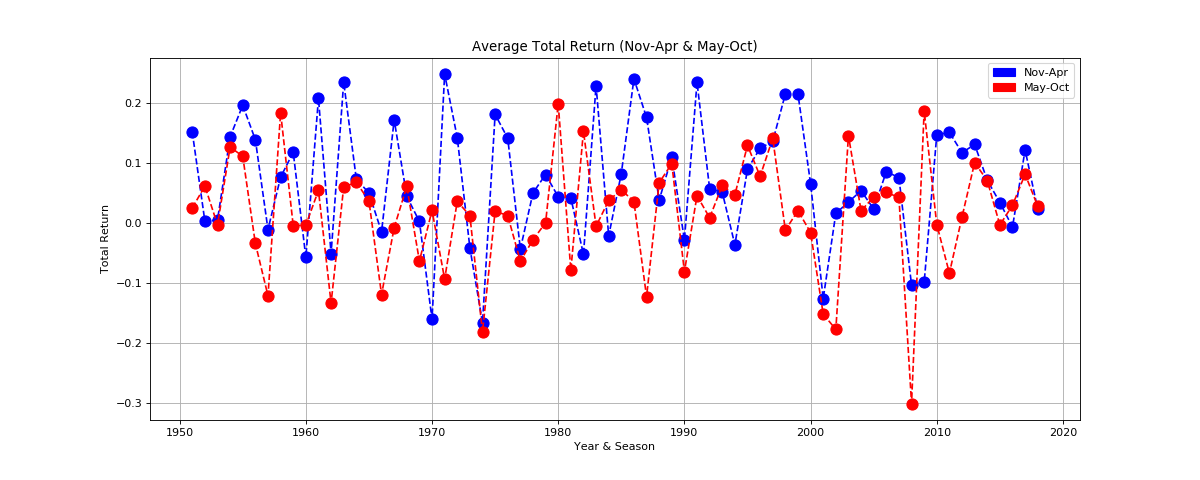
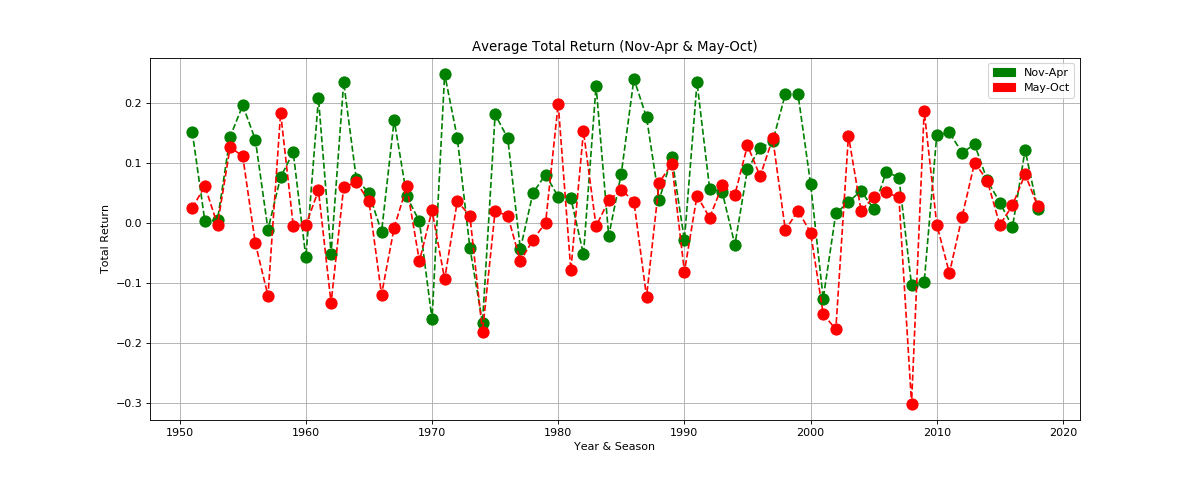
PPT update

diff --git a/New1.py b/New1.py
@@ -196,8 +196,9 @@ plt.savefig("avg_total_ret_sea.png")
 # Show the Figure
 plt.show()
 #---------------------------------------------
-# Average Total Return by Yeah and Season
+# Average Total Return by Year and Season
 #  -May-Dec & Apr-Nov
+# Nov-Apr & Oct-Mar
 #---------------------------------------------
 
 
@@ -214,30 +215,30 @@ year_season = year_season.drop(year_season[year_season.Year < 1951].index)
 #Create variable to hold list of years
 years_list = year_season["Year"].unique().tolist()
 
-may_dec = year_season.loc[year_season["Season"] == "Dec-May" , : ]
-apr_nov = year_season.loc[year_season["Season"] == "Nov-Apr" , : ]
+Oct_Mar = year_season.loc[year_season["Season"] == "Oct-Mar" , : ]
+Nov_Apr = year_season.loc[year_season["Season"] == "Nov-Apr" , : ]
 
-may_dec.head()
+Oct_Mar.head()
 
 plt.figure(figsize=(15, 6), dpi=80)
 
 # Generate the Plot
-plt.plot(years_list,may_dec["pct_sos"], "bo", linestyle="dashed", markersize=10, linewidth=1.5)
-plt.plot(years_list,apr_nov["pct_sos"], "go", linestyle="dashed", markersize=10, linewidth=1.5)
+plt.plot(years_list,Oct_Mar["pct_sos"], "bo", linestyle="dashed", markersize=10, linewidth=1.5)
+plt.plot(years_list,Nov_Apr["pct_sos"], "go", linestyle="dashed", markersize=10, linewidth=1.5)
 
-plt.title("Average Percentage Change (May-Dec & Apr-Nov)")
+plt.title("Average Percentage Change (Oct-Mar & Nov-Apr)")
 plt.ylabel("Total Return")
 plt.xlabel("Year & Season")
 plt.xticks()
 plt.grid(True)
 
 # plt.legend
-blue_patch = mpatches.Patch(color='Blue', label='May-Dec')
-green_patch = mpatches.Patch(color='Green', label='Apr-Nov')
+blue_patch = mpatches.Patch(color='Blue', label='Oct-Mar')
+green_patch = mpatches.Patch(color='Green', label='Nov-Apr')
 plt.legend(handles=[blue_patch, green_patch])
 
 # Save the Figure
-plt.savefig("may_dec_apr_nov.png")
+plt.savefig("oct_mar_nov_apr.png")
 
 # Show the Figure
 #plt.show()
@@ -262,9 +263,9 @@ y_jul_feb
 years_list = year_season["Year"].unique().tolist() 
 
 # Generate the Plot
-plt.plot(years_list,jul_feb["pct_sos"], "bo", linestyle="dashed", markersize=10, linewidth=1.5)
-plt.plot(years_list,aug_mar["pct_sos"], "go", linestyle="dashed", markersize=10, linewidth=1.5)
-plt.plot(years_list,sep_apr["pct_sos"], "ro", linestyle="dashed", markersize=10, linewidth=1.5)
+plt.plot(years_list,jul_feb["pct_sos"], "yo", linestyle="dashed", markersize=10, linewidth=1.5)
+plt.plot(years_list,aug_mar["pct_sos"], "mo", linestyle="dashed", markersize=10, linewidth=1.5)
+plt.plot(years_list,sep_apr["pct_sos"], "ko", linestyle="dashed", markersize=10, linewidth=1.5)
 
 plt.title("Average Total Return (Feb-Jul, Mar-Aug, & Apr-Sep)")
 plt.ylabel("Total Return")
@@ -276,10 +277,10 @@ plt.grid(True)
 
 plt.legend()
 
-blue_patch = mpatches.Patch(color='Blue', label='Feb-Jul')
-green_patch = mpatches.Patch(color='Green', label='Mar-Aug')
-red_patch = mpatches.Patch(color='Red', label='Apr-Sep')
-plt.legend(handles=[blue_patch, green_patch, red_patch])
+olive_patch = mpatches.Patch(color="y", label='Feb-Jul')
+purple_patch = mpatches.Patch(color="m", label='Mar-Aug')
+black_patch = mpatches.Patch(color="k", label='Apr-Sep')
+plt.legend(handles=[olive_patch, purple_patch, black_patch])
 
 # Save the Figure
 plt.savefig("may_dec_apr_nov.png")
@@ -301,7 +302,7 @@ nov_apr.head()
 plt.figure(figsize=(15, 6), dpi=80)
 
 # Generate the Plot
-plt.plot(years_list,nov_apr["pct_sos"], "bo", linestyle="dashed", markersize=10, linewidth=1.5)
+plt.plot(years_list,nov_apr["pct_sos"], "go", linestyle="dashed", markersize=10, linewidth=1.5)
 plt.plot(years_list,may_oct["pct_sos"], "ro", linestyle="dashed", markersize=10, linewidth=1.5)
 
 plt.title("Average Total Return (Nov-Apr & May-Oct)")
@@ -310,9 +311,9 @@ plt.xlabel("Year & Season")
 plt.grid(True)
 
 # plt.legend
-blue_patch = mpatches.Patch(color='Blue', label='Nov-Apr')
+green_patch = mpatches.Patch(color='green', label='Nov-Apr')
 red_patch = mpatches.Patch(color='red', label='May-Oct')
-plt.legend(handles=[blue_patch, red_patch])
+plt.legend(handles=[green_patch, red_patch])
 
 # Save the Figure
 plt.savefig("may_dec_apr_nov.png")
